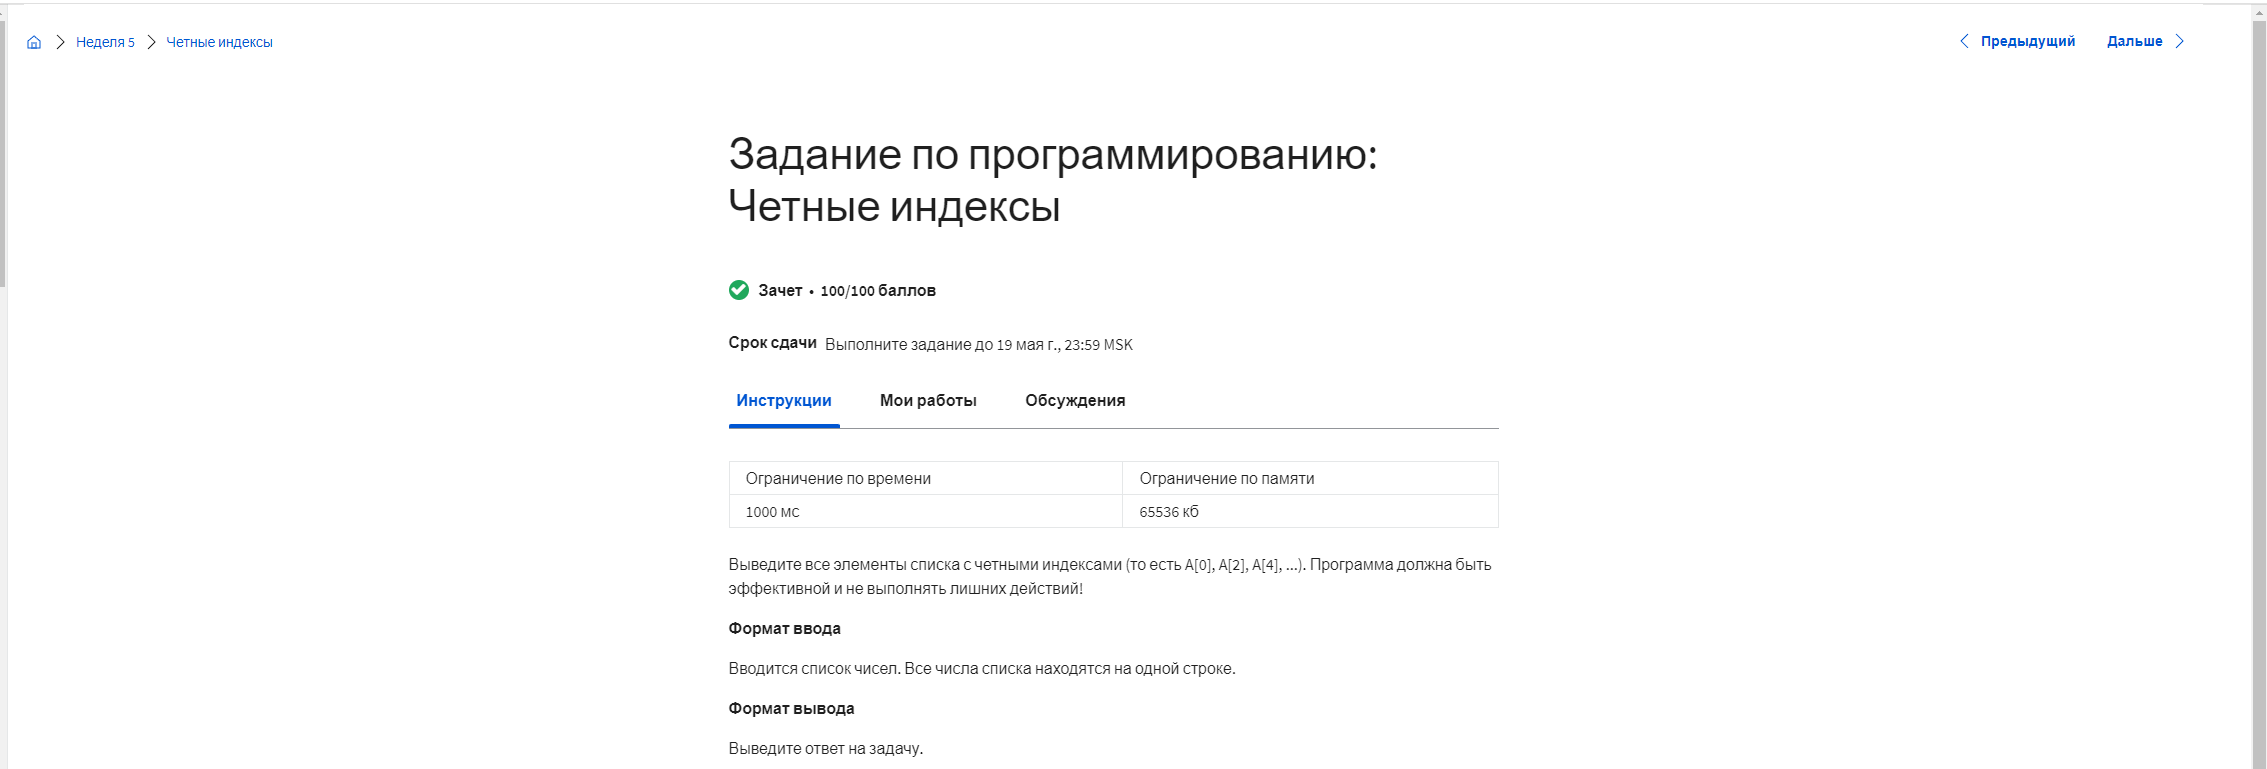
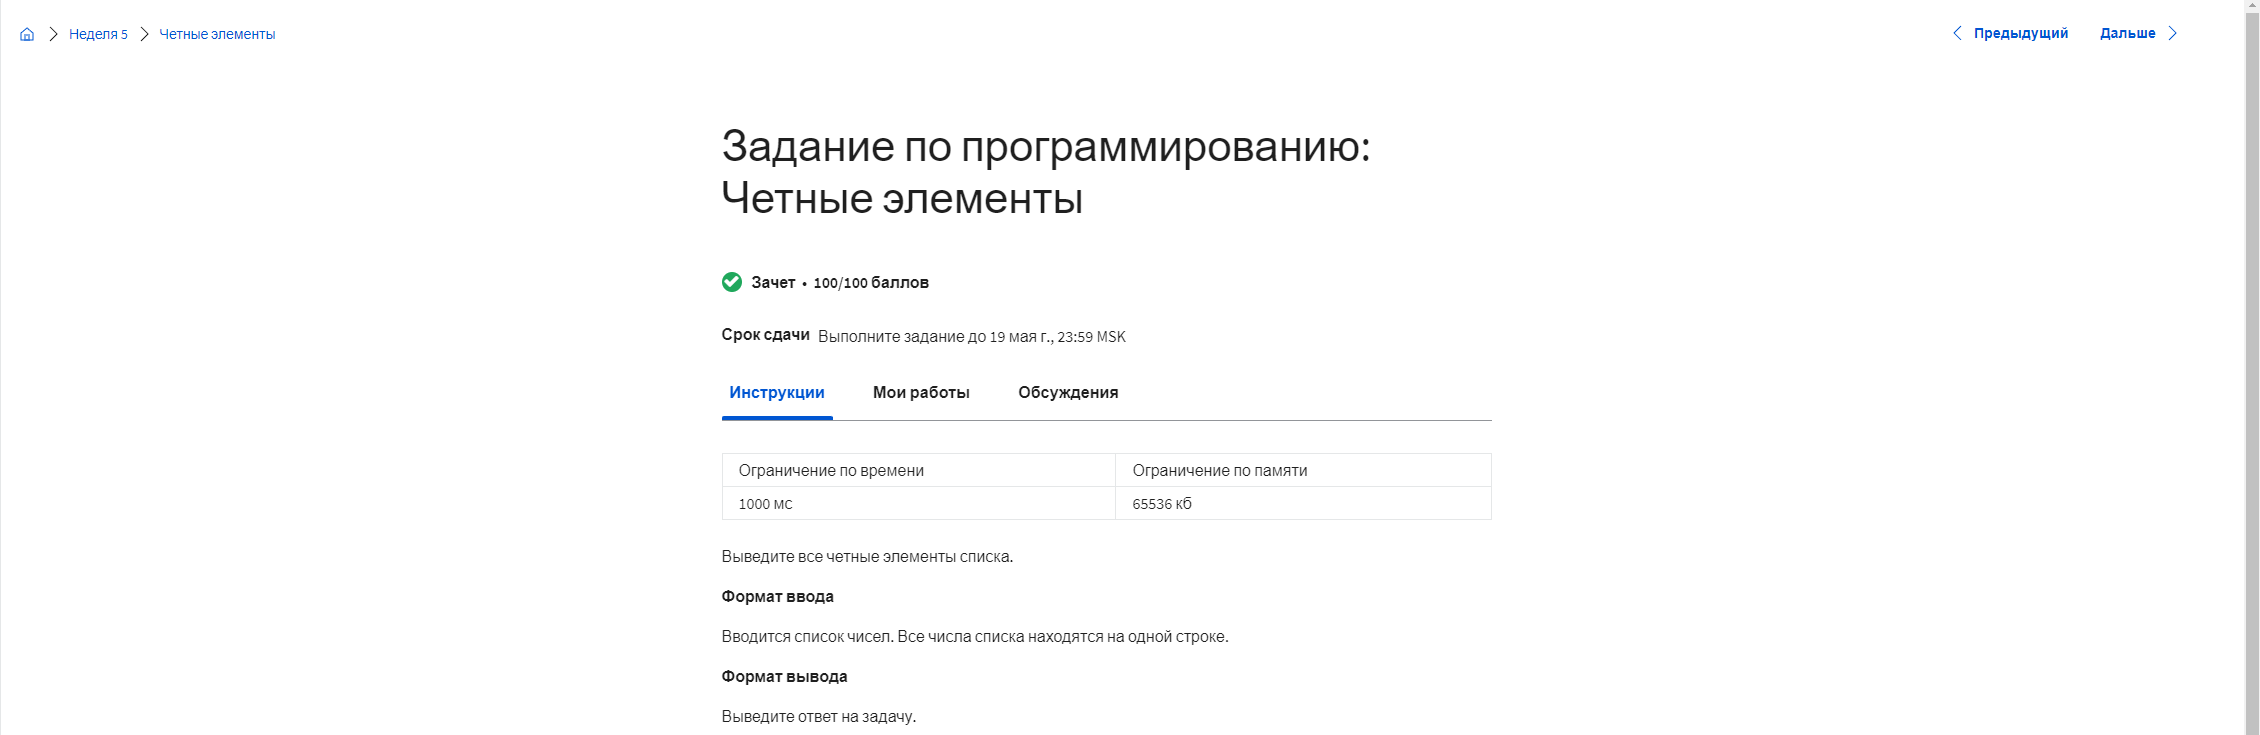
done

diff --git a/week5/07-chietnyie-eliemienty/test.py b/week5/07-chietnyie-eliemienty/test.py
@@ -1,0 +1,26 @@
+import unittest
+from os import system
+from task import main
+from utils.testUtil import mockAndRun
+
+
+class Test(unittest.TestCase):
+    def test_case1(self):
+        value = mockAndRun("""1 2 2 3 3 3 4""".splitlines(), main)
+        expected_result = """2 2 4
+"""
+        self.assertEqual(expected_result, value)
+    def test_case2(self):
+        value = mockAndRun("""1 2 3 4 5""".splitlines(), main)
+        expected_result = """2 4
+"""
+        self.assertEqual(expected_result, value)
+    def test_case3(self):
+        value = mockAndRun("""2 4 6 8""".splitlines(), main)
+        expected_result = """2 4 6 8
+"""
+        self.assertEqual(expected_result, value)
+    def test_pep8(self):
+        value = system("python -m pycodestyle --first task.py")
+        print(value)
+        self.assertIs(value, 0)

diff --git a/week5/07-chietnyie-eliemienty/task.py b/week5/07-chietnyie-eliemienty/task.py
@@ -1,0 +1,12 @@
+def main():
+    input_list = input().split(" ")
+    res = []
+    for el in input_list:
+        el = int(el)
+        if el % 2 == 0:
+            res.append(el)
+    print(*res)
+
+
+if __name__ == "__main__":
+    main()
